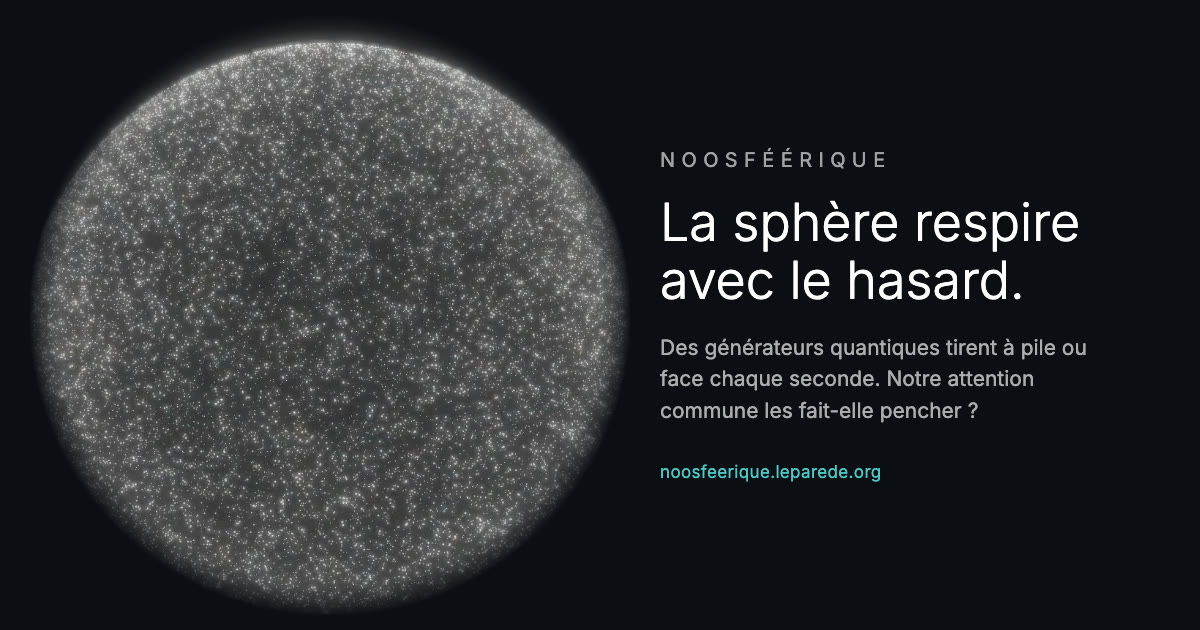
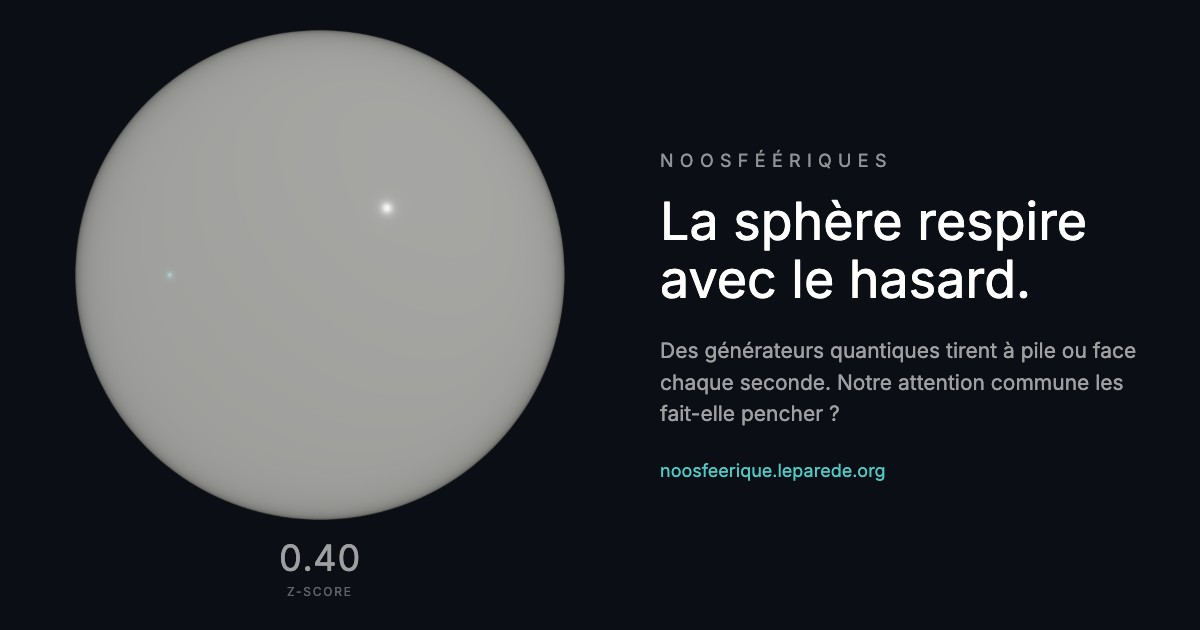
feat(partage): image de partage avec la sphère de l'app et son z-score, titre Noosféériques

diff --git a/public/dashboard.html b/public/dashboard.html
@@ -13,7 +13,7 @@
   <meta property="og:image" content="https://noosfeerique.leparede.org/assets/images/partage.jpg">
   <meta property="og:image:width" content="1200">
   <meta property="og:image:height" content="630">
-  <meta property="og:image:alt" content="Une sphère faite de milliers de points lumineux, sur fond noir, et le titre Noosféériques">
+  <meta property="og:image:alt" content="La sphère de l'app, sur fond noir, son z-score, et le titre Noosféériques">
   <meta property="og:locale" content="fr_FR">
   <meta name="twitter:card" content="summary_large_image">
   <meta name="twitter:title" content="Noosféériques · La sphère respire avec le hasard">

diff --git a/public/experience.html b/public/experience.html
@@ -16,7 +16,7 @@
   <meta property="og:image" content="https://noosfeerique.leparede.org/assets/images/partage.jpg">
   <meta property="og:image:width" content="1200">
   <meta property="og:image:height" content="630">
-  <meta property="og:image:alt" content="Une sphère faite de milliers de points lumineux, sur fond noir, et le titre Noosféériques">
+  <meta property="og:image:alt" content="La sphère de l'app, sur fond noir, son z-score, et le titre Noosféériques">
   <meta property="og:locale" content="fr_FR">
   <meta name="twitter:card" content="summary_large_image">
   <meta name="twitter:title" content="Noosféériques · La sphère respire avec le hasard">
